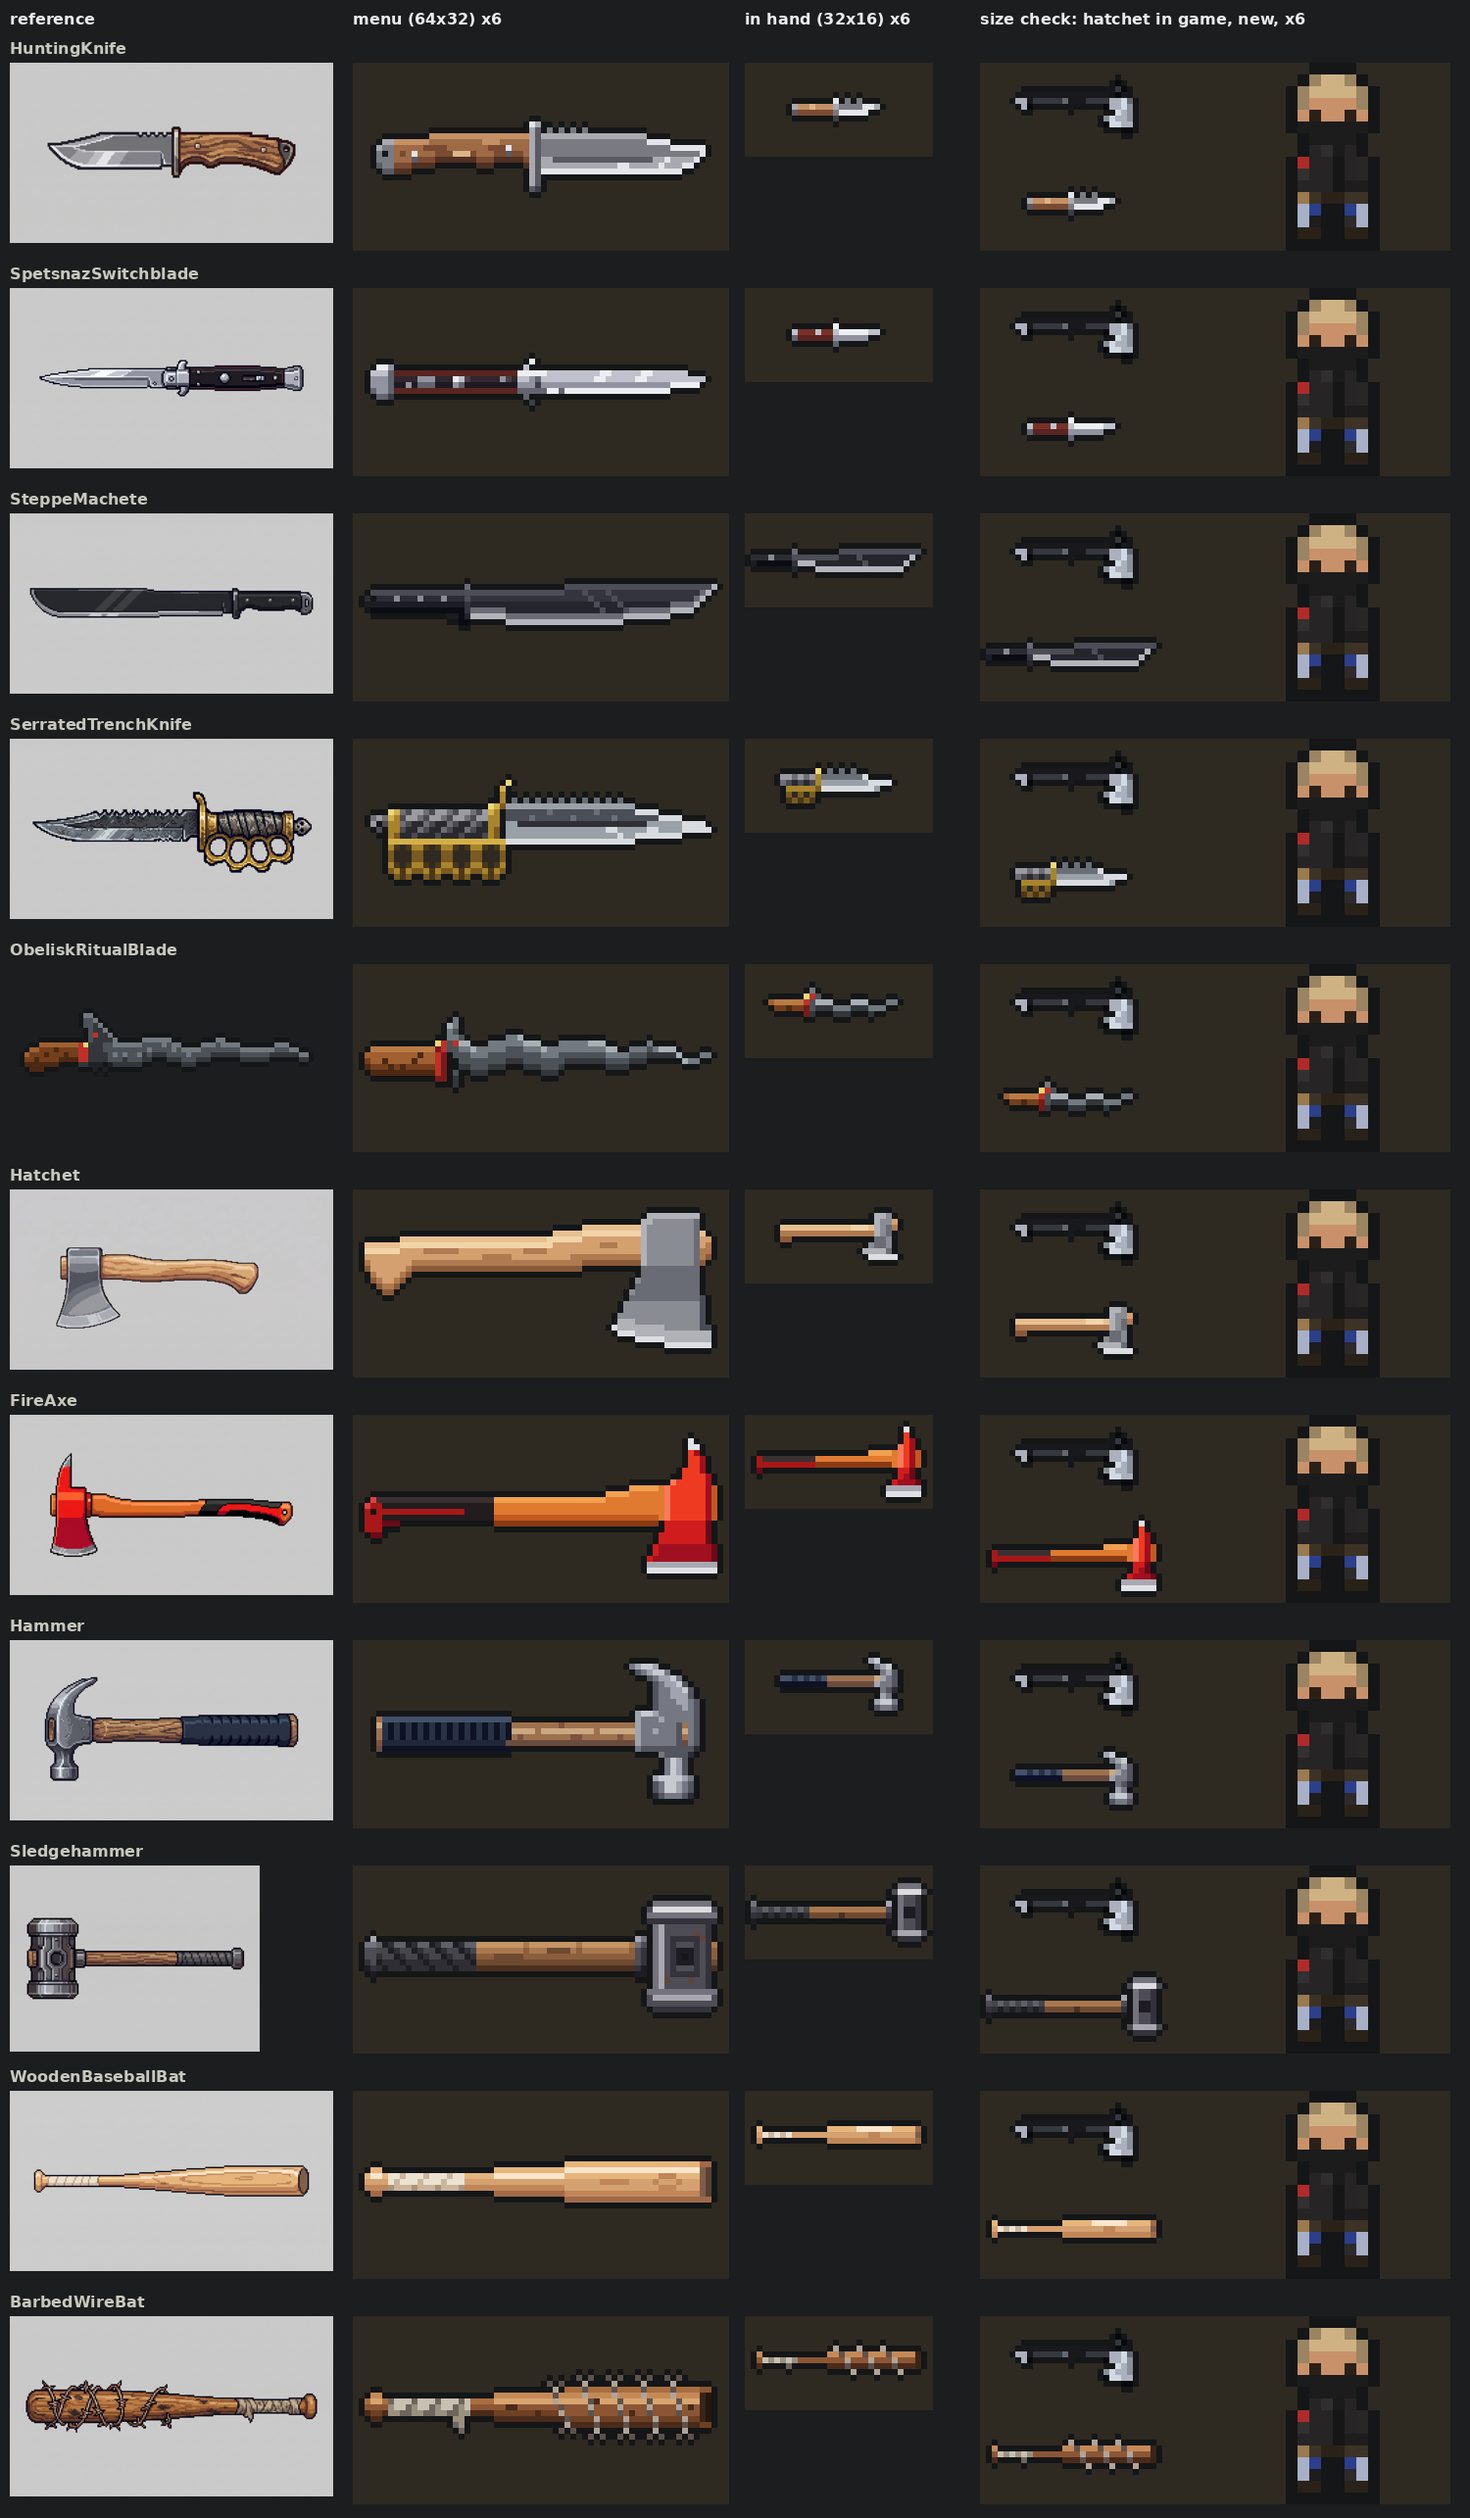
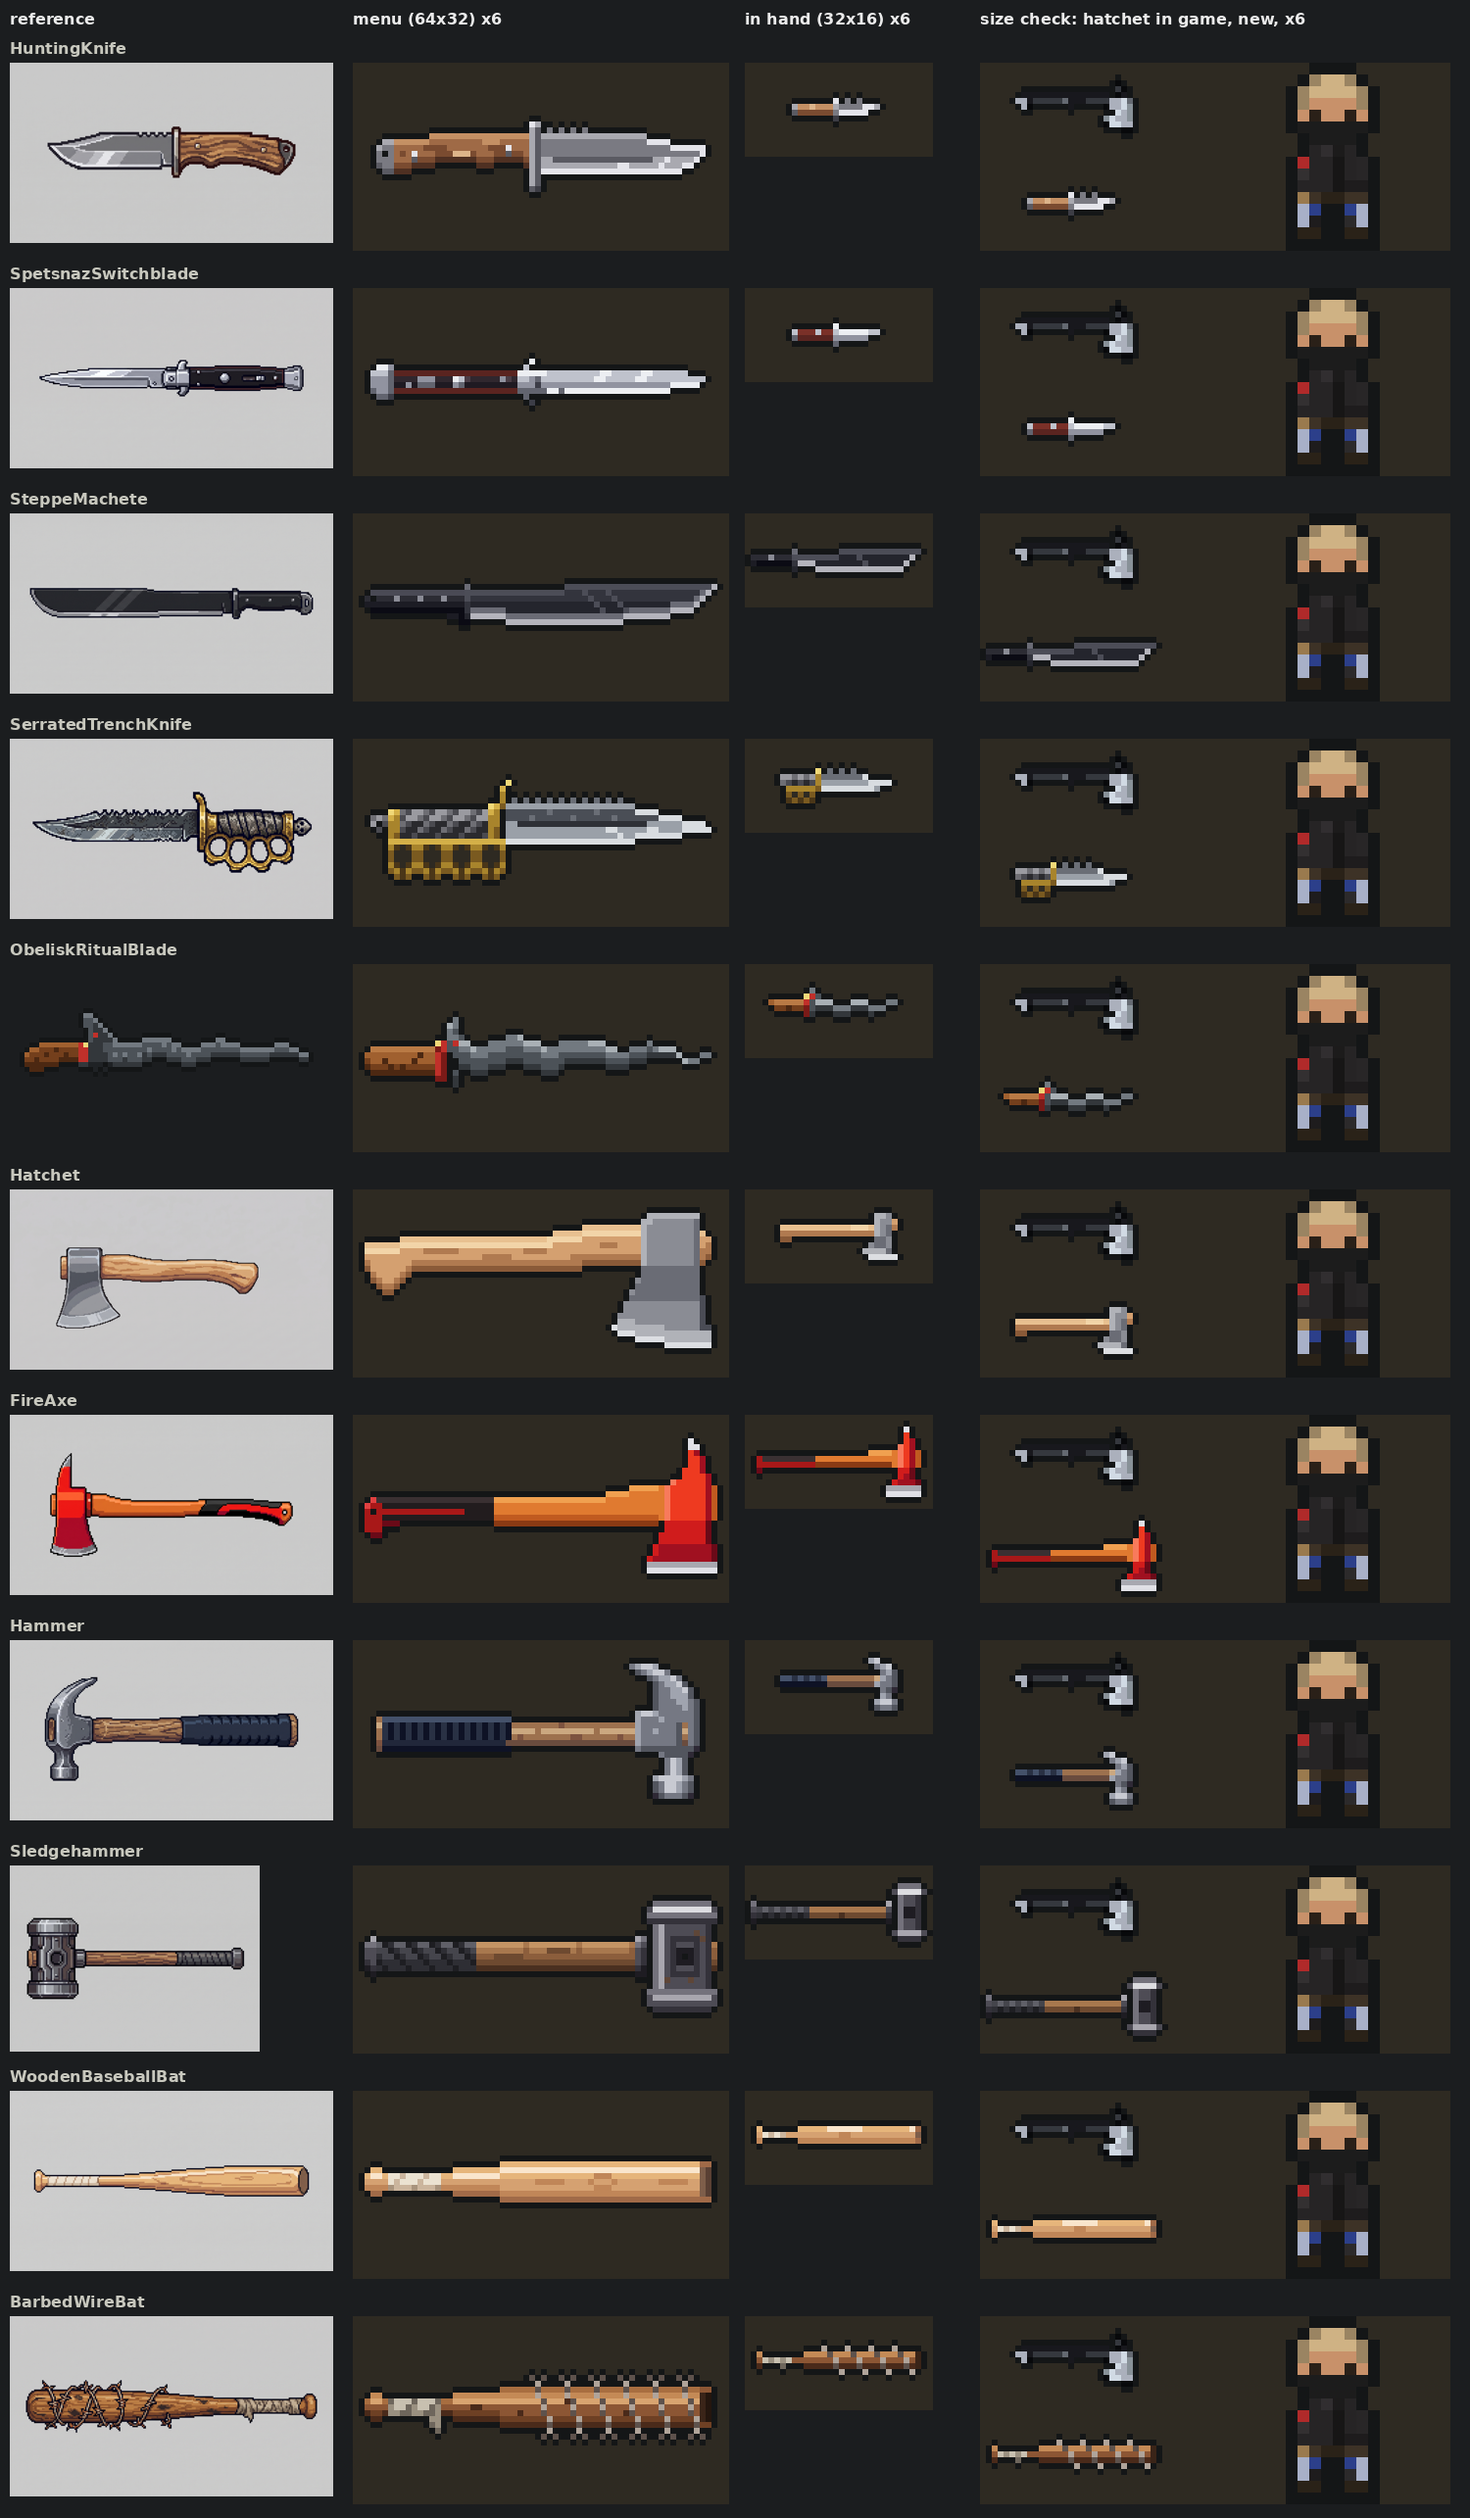
RT 7v: shorter bat handles, longer barrels (Yan)
Claude-Session: https://claude.ai/code/session_017RM7tWVFFchFrbQYy4G9ho

diff --git a/ArtSource/weapons/hand/melee_px.py b/ArtSource/weapons/hand/melee_px.py
@@ -17,18 +17,18 @@ BAT = {"l": "#e6b57b", "f": "#f9e5cc", "m": "#d5a171", "d": "#c08658", "e": "#a0
        "t": "#ebe2d1", "T": "#cbb59d", "S": "#a8937c"}                                       # tape
 
 BAT_MENU = [
-    "..................................lllllllllllllllllllllllee",
-    ".ll...................llllllllllllfffffffffffffffffffffffgG",
-    "lfflttTtttTtttTttlllllfffffffffffflllllllllllllllldddllllgG",
-    "mmmmtTtttTtttTtttmmmmmmmmmmmmmmmmmmmmmmmdddddmmmmdmmmdmmmgG",
-    "ddddSTTTSTTTSTTTSdddddddddddddddddmmmmmmmmmmmmmmmmdddmmmmgG",
-    ".ee...................eeeeeeeeeeeedddddddddddddddddddddddgG",
-    "..................................eeeeeeeeeeeeeeeeeeeeeeeee",
+    ".......................llllllllllllllllllllllllllllllllllee",
+    ".ll............llllllllffffffffffffffffffffffffffffffffffgG",
+    "lfflttTtttTttllfffffffflllllllllllllllldddlllllllllllllllgG",
+    "mmmmtTtttTtttmmmmmmmmmmmmmmmmdddddmmmmdmmmdmmmmmmmdddddmmgG",
+    "ddddSTTTSTTTSddddddddddmmmmmmmmmmmmmmmmdddmmmmmmmmmmmmmmmgG",
+    ".ee............eeeeeeeeddddddddddddddddddddddddddddddddddgG",
+    ".......................eeeeeeeeeeeeeeeeeeeeeeeeeeeeeeeeeeee",
 ]
 BAT_HAND = [
-    "l...........lllllfffffflllle",
-    "mtTtTtmmmmmmmmmmmmmddmmmmmmg",
-    "d...........ddddddddddddddde",
+    "l......lllllffffffllllllllfe",
+    "mtTtTmmmmmmmmmddmmmmmmmmmmmg",
+    "d......dddddddddddddddddddde",
 ]
 
 HAMMER = {"0": "#2e2935", "1": "#52555e", "2": "#757883", "3": "#a0a4af", "4": "#c8cad2",   # steel
@@ -275,24 +275,24 @@ SLEDGEHAMMER_HAND = [
 
 BARBEDWIREBAT = {"a": "#4a2a1a", "b": "#6e4024", "c": "#8c5634", "d": "#a86e40", "e": "#c48a56", "f": "#d8a470", "g": "#3a2418", "G": "#24160e", "t": "#c8c0b0", "T": "#9a9080", "S": "#6e665c", "w": "#5e524c", "W": "#b0a49a", "K": "#141617"}
 BARBEDWIREBAT_MENU = [
-    "....................................w.w..w.w..w.w..w.w.....",
-    "...............................w.w...W....W....W....W......",
-    "................................W.dddwddddwddddwddddwddddcc",
-    ".ee...................eeeeeeeeeeweeeeWeeeeWeeeeWeeeeWeeeegG",
-    "dffdStttStttStttStddddffffffffffWfffffwafffwffffwffffwfffgG",
-    "ccccTttSTttSTttSTtccccccaacccccccwccccWccccWccccWccccWcacgG",
-    "abbaTTSSTTSSTTSSTTaaaabbbbbbbabbbWccccwccccwcaccwccccwcccgG",
-    ".aa............TT.....aaaaaaaaaaaawbbbbWbbbbWbbbbWbbbbWbbgG",
-    "...............ST.................Waaaawaaaawaaaawaaaawaabb",
-    "................S................w.w...W....W....W....W....",
-    "......................................w.w..w.w..w.w..w.w...",
+    "............................w.w..w.w..w.w..w.w..w.w..w.w...",
+    ".............................W....W....W....W....W....W....",
+    ".......................ddddddwddddwddddwddddwddddwddddwddcc",
+    ".ee............eeeeeeeeeeeeeeWeeeeWeeeeWeeeeWeeeeWeeeeWeegG",
+    "dffdStttStttSddfffffffffffffffwfffawffffwffffwffffwffffwfgG",
+    "ccccTttSTttSTcccccaaccccccccccWccccWccccWccccWccccWccccWcgG",
+    "abbaTTSSTTSSTaabbbbbbbbcccacccwccccwccccwcccawccccwccccwcgG",
+    ".aa........TT..aaaaaaaabbbbbbbbWbbbbWbbbbWbbbbWbbbbWbbbbWgG",
+    "...........ST..........aaaaaaaawaaaawaaaawaaaawaaaawaaaawbb",
+    "............S..................W....W....W....W....W....W..",
+    "..............................w.w..w.w..w.w..w.w..w.w..w.w.",
 ]
 BARBEDWIREBAT_HAND = [
-    ".............W...W...W......",
-    "e...........eeweeeweeeweeeeg",
-    "ctTtTtTccccccccWcccWcccWcccg",
-    "a....S......aaawaaawaaawaaag",
-    "................W...W...W...",
+    "...........W...W...W...W....",
+    "e.......eeeeweeeweeeweeeweeg",
+    "ctTtTtcccccccWcccWcccWcccWcg",
+    "a...S...aaaaawaaawaaawaaawag",
+    "..............W...W...W...W.",
 ]
 
 OBELISKRITUALBLADE = {"0": "#22262a", "1": "#33373b", "2": "#4c5258", "3": "#727980", "4": "#a9b0b5", "a": "#4c2812", "b": "#743f1c", "c": "#a0602f", "d": "#b97a45", "r": "#7a1a17", "R": "#c0302a", "s": "#e06a50", "y": "#f0d878", "K": "#141617"}

diff --git a/ArtSource/WORK_LOG.md b/ArtSource/WORK_LOG.md
@@ -3738,3 +3738,6 @@ Barbed Wire Bat; the 5 old knives/blades have pre-hatchet sprites).
   - Machete: the blade is 3 px longer, so its belly runs straight longer before it sweeps up.
   - Trench knife: the blade is longer, with a clip point and an edge that curves up to the tip.
   - Hatchet: removed the bump on the handle next to the head.
+- Yan: the two bats' handles were "too long, makes them look like that other bat from that other sport". The thin handle is now
+  about a third shorter and the barrel longer, on both bats and in both sizes, with the total length unchanged. The barbed bat
+  now has 6 wire coils.
